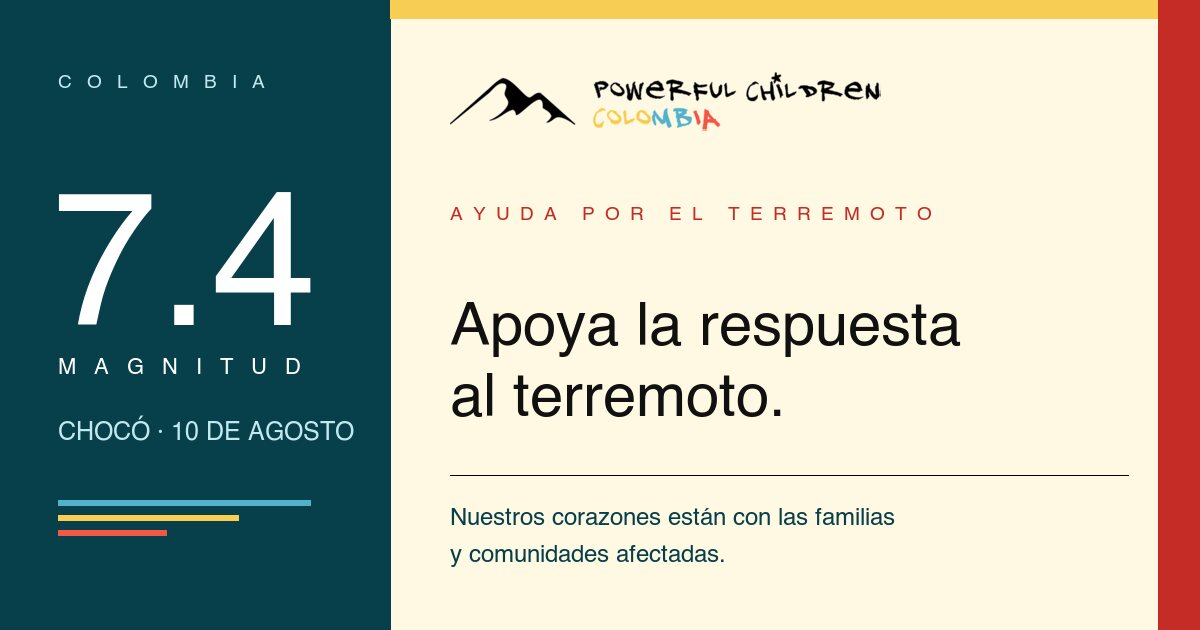
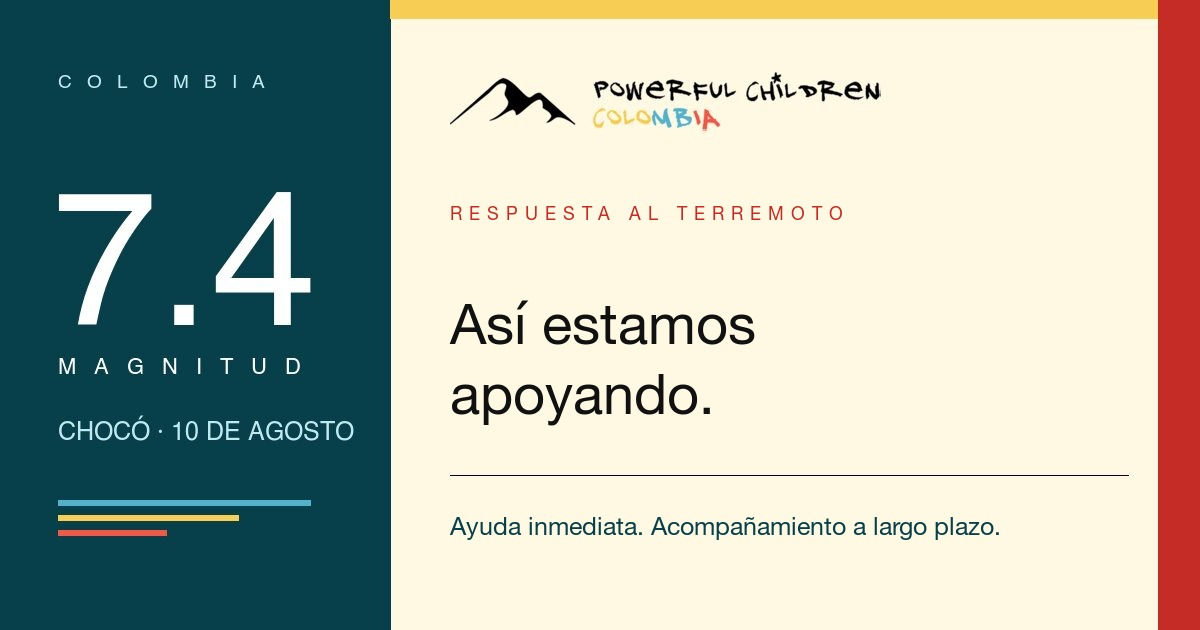
Refresh earthquake response social previews

diff --git a/scripts/check_site.py b/scripts/check_site.py
@@ -507,12 +507,16 @@ def gate_product_ux(pages, failures):
         "earthquake-relief/index.html": ["id=\"donation-form\"", "donorbox-frame", "https://donorbox.org/widgets.js",
                                            'campaign="colombia-earthquake-relief"', 'type="donation_form"',
                                            'enable-auto-scroll="true"', "Colombia Earthquake Relief",
+                                           "See how PCC and trusted local partners are supporting earthquake relief",
+                                           "PCC earthquake response and long-term recovery in Colombia",
                                            'href="#donation-form" data-relief-form-link', "Donate to earthquake relief",
                                            "Our guiding principles", "Our response", "Alpha FC",
                                            "Cultura Viva via Fundación Ideamos", "Espíritu Indomable",
                                            "21 families most affected", "11 communities across Quibdó",
                                            "#PowerfulJuntos", "Make a general donation"],
         "es/earthquake-relief/index.html": ["Respuesta al terremoto en Colombia",
+                                              "Conoce cómo PCC y sus organizaciones aliadas están apoyando la emergencia",
+                                              "Respuesta y recuperación tras el terremoto en Colombia",
                                               "Lo que guía nuestra respuesta", "Así estamos apoyando",
                                               'campaign="colombia-earthquake-relief"',
                                               'href="#donation-form" data-relief-form-link', "Dona para esta emergencia",

diff --git a/scripts/site_components.py b/scripts/site_components.py
@@ -62,8 +62,8 @@ def head(meta, title, description, path, noindex=False):
         "/programs/alpha-fc/": ("og-alpha-fc.jpg", "Alpha FC participants in Pereira, with the Powerful Children Colombia logo"),
         "/programs/caminos-nativos/": ("og-caminos-nativos.jpg", "Caminos Nativos riders in Cabrera, with the Powerful Children Colombia logo"),
         "/programs/mas-que-vencedores/": ("og-mas-que-vencedores.jpg", "Más Que Vencedores chess participants in Santa Marta, with the Powerful Children Colombia logo"),
-        "/earthquake-relief/": ("og-earthquake-relief.jpg", "Earthquake relief led locally in Colombia, from Powerful Children Colombia"),
-        "/es/earthquake-relief/": ("og-earthquake-relief-es.jpg", "Ayuda por el terremoto liderada localmente en Colombia, de Powerful Children Colombia"),
+        "/earthquake-relief/": ("og-earthquake-relief.jpg", "PCC earthquake response and long-term recovery in Colombia"),
+        "/es/earthquake-relief/": ("og-earthquake-relief-es.jpg", "Respuesta y recuperación tras el terremoto en Colombia, de Powerful Children Colombia"),
     }
     og_filename, og_alt = program_previews.get(
         path,

diff --git a/scripts/build_site.py b/scripts/build_site.py
@@ -953,8 +953,8 @@ def earthquake_relief():
       <p class="form-fallback"><a class="underlink" href="{esc(meta['earthquakeDonorboxUrl'])}">{esc(fallback)}</a></p>
     </div>
   </section>"""
-    relief_title = "Colombia earthquake relief" if LOCALE == "en" else "Ayuda por el terremoto en Colombia"
-    write("/earthquake-relief/", f"{relief_title} | {meta['name']}", n["responseIntro"], "/earthquake-relief/", "Programs / Colombia earthquake relief", body)
+    relief_title = "Colombia earthquake response" if LOCALE == "en" else "Respuesta al terremoto en Colombia"
+    write("/earthquake-relief/", f"{relief_title} | {meta['name']}", n["metaDescription"], "/earthquake-relief/", "Programs / Colombia earthquake relief", body)
 
 
 def thank_you():
